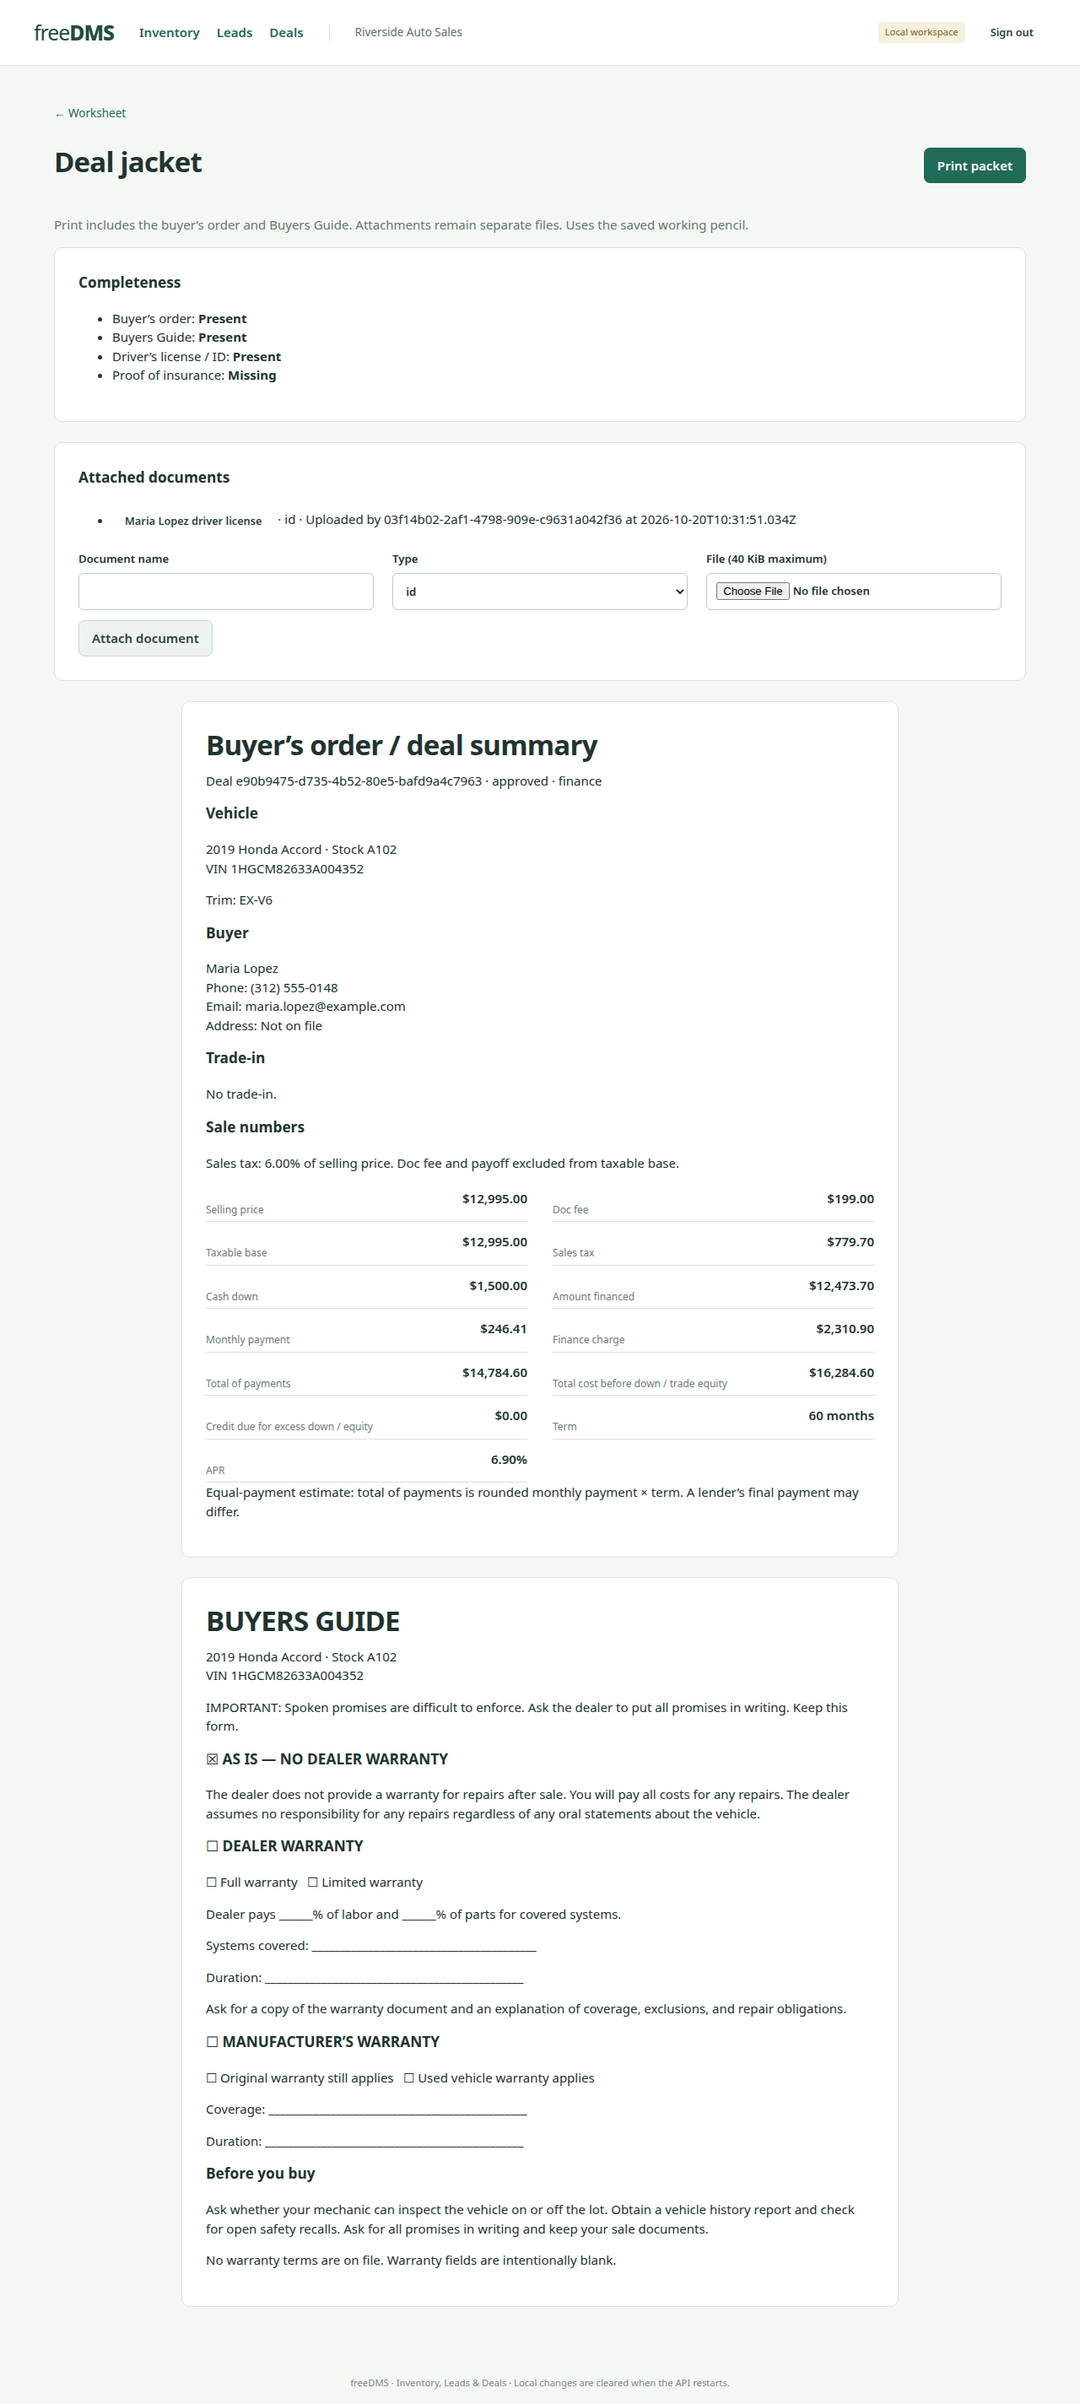
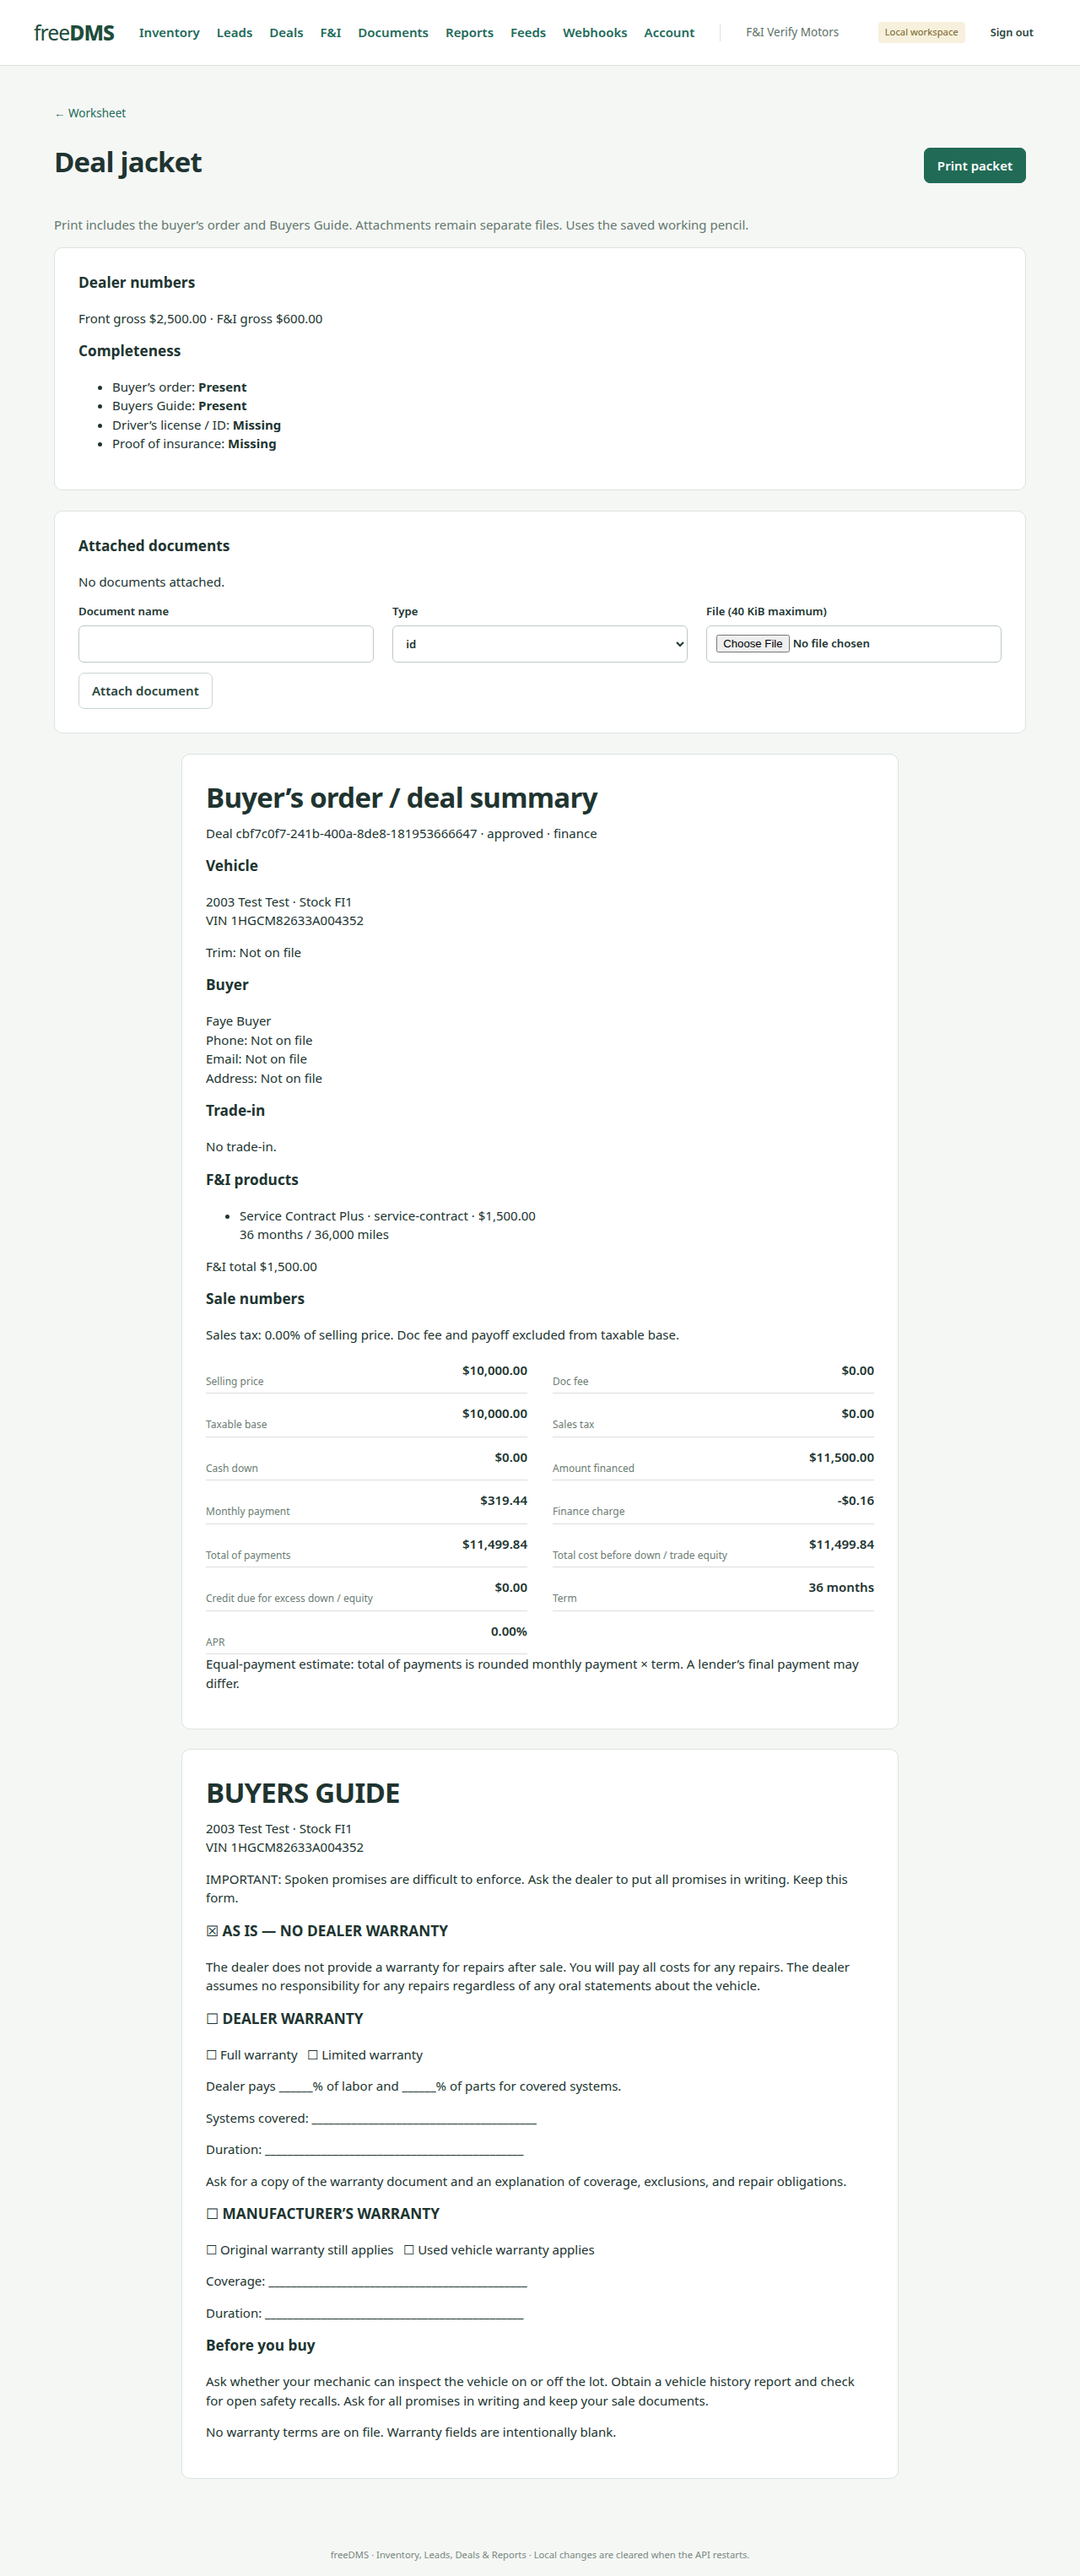
docs: refresh worksheet, jacket and reports screenshots, add F&I catalog to README tour (#12)

diff --git a/README.md b/README.md
@@ -49,12 +49,19 @@ always starts empty.
 
 ![Leads list](docs/screenshots/leads-list.png)
 
-**The pencil** — cash/finance worksheet with live totals and a 3×3 payment grid.
+**The pencil** — cash/finance worksheet with live totals, a 3×3 payment grid,
+and the F&I menu step: accept or decline each product for the pencil.
 
 ![Deal worksheet](docs/screenshots/deal-worksheet.png)
 
-**Deal jacket** — buyer's order, FTC Buyers Guide, attachments, and the
-completeness checklist.
+**F&I products** — the workspace catalog behind the menu: cost, retail price,
+gross, coverage notes, active/inactive. Native menu tooling only — no lender
+or signature connection exists.
+
+![F&I products](docs/screenshots/fi-products.png)
+
+**Deal jacket** — buyer's order, FTC Buyers Guide, attachments, the
+completeness checklist, and any accepted F&I products.
 
 ![Deal jacket](docs/screenshots/deal-jacket.png)
 
@@ -64,8 +71,9 @@ nothing is ever deleted automatically.
 
 ![Documents search and retention](docs/screenshots/documents.png)
 
-**Reports** — inventory aging, sales and gross, lead pipeline. Each exports to
-CSV, plus a QuickBooks-format accounting export.
+**Reports** — inventory aging, sales with front gross and F&I gross reported
+separately, lead pipeline. Each exports to CSV, plus a QuickBooks-format
+accounting export.
 
 ![Reports](docs/screenshots/reports.png)
 
